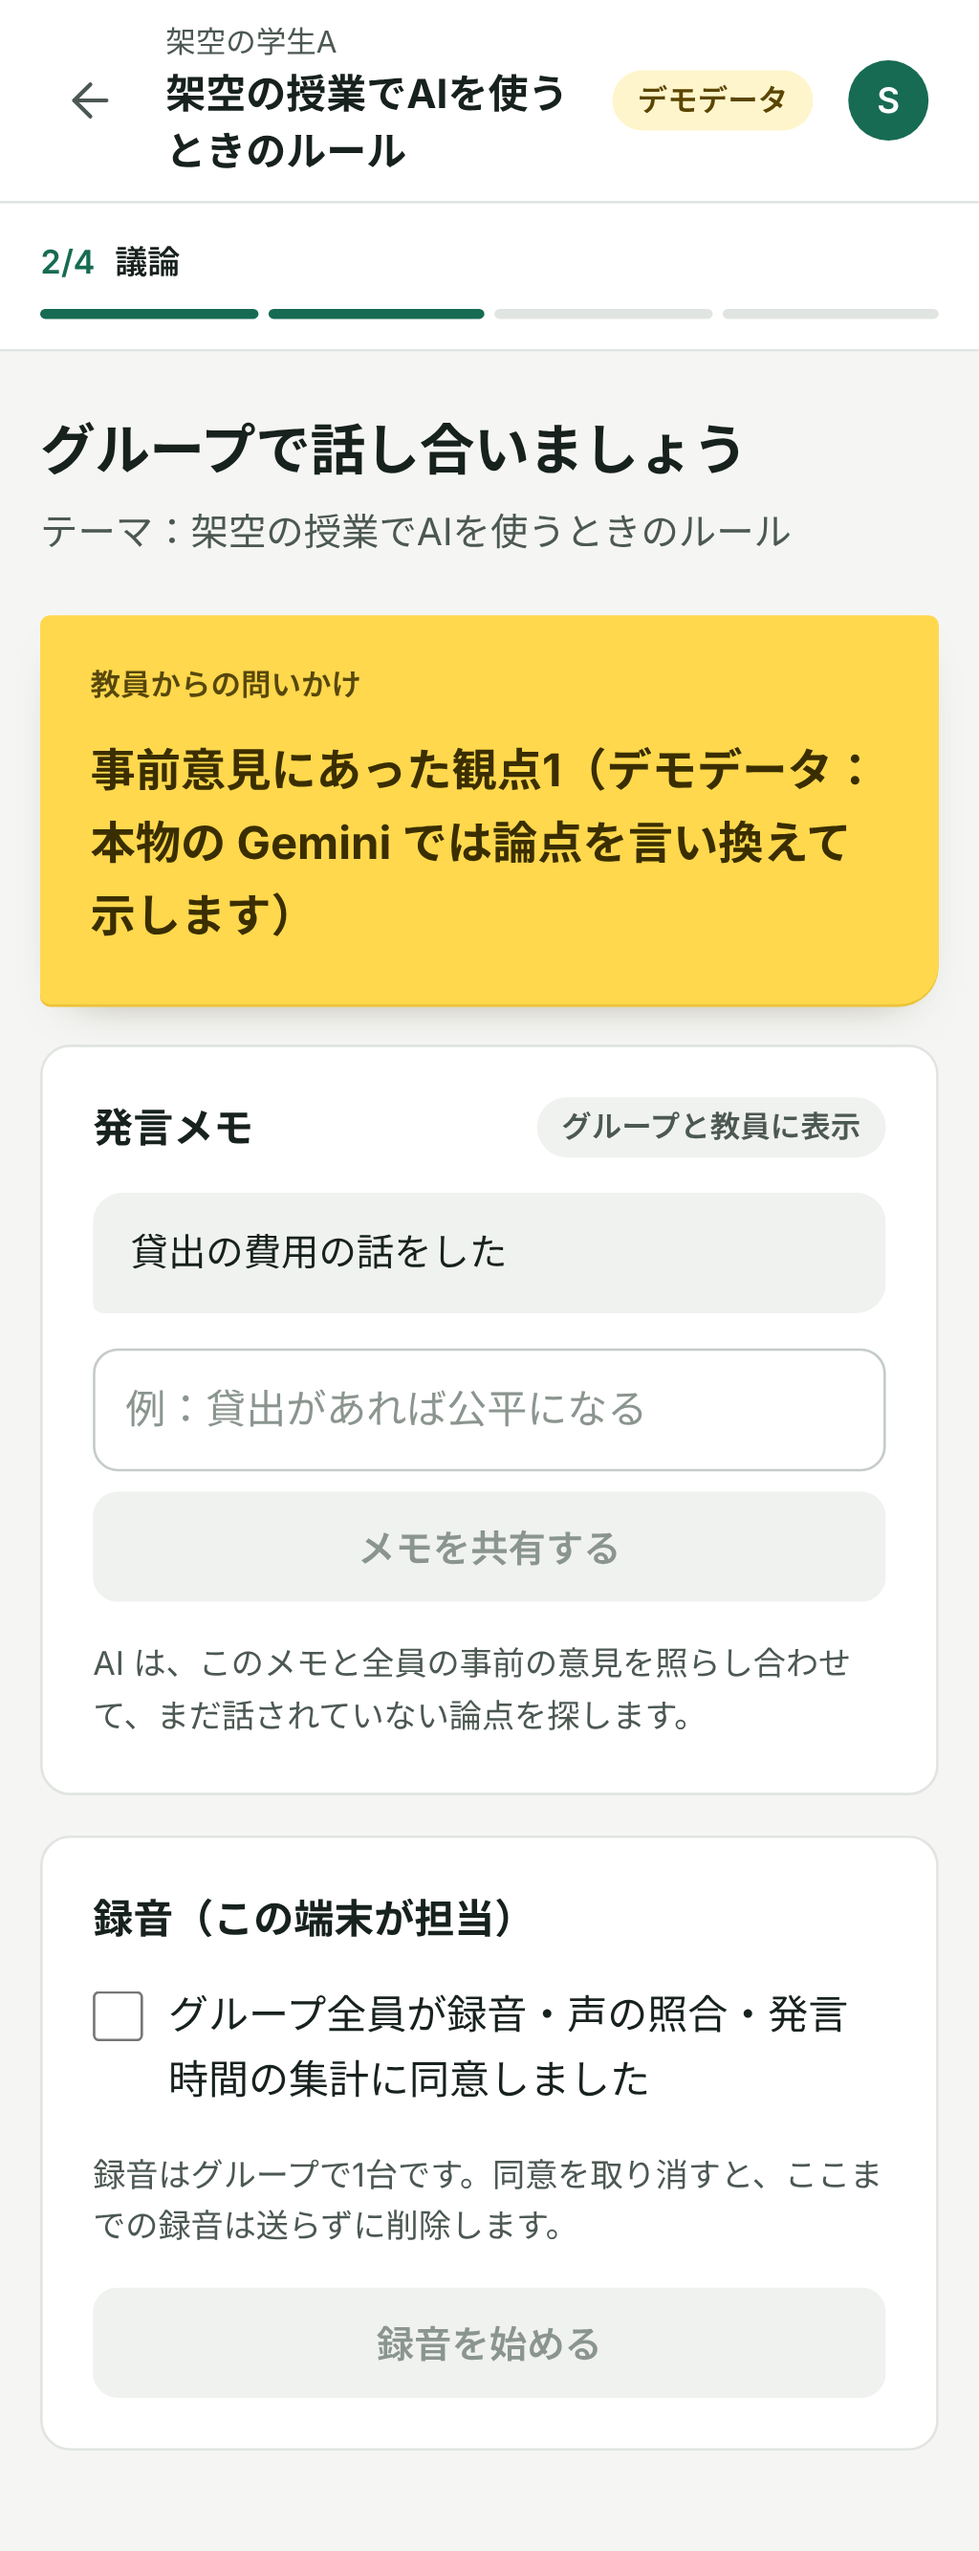
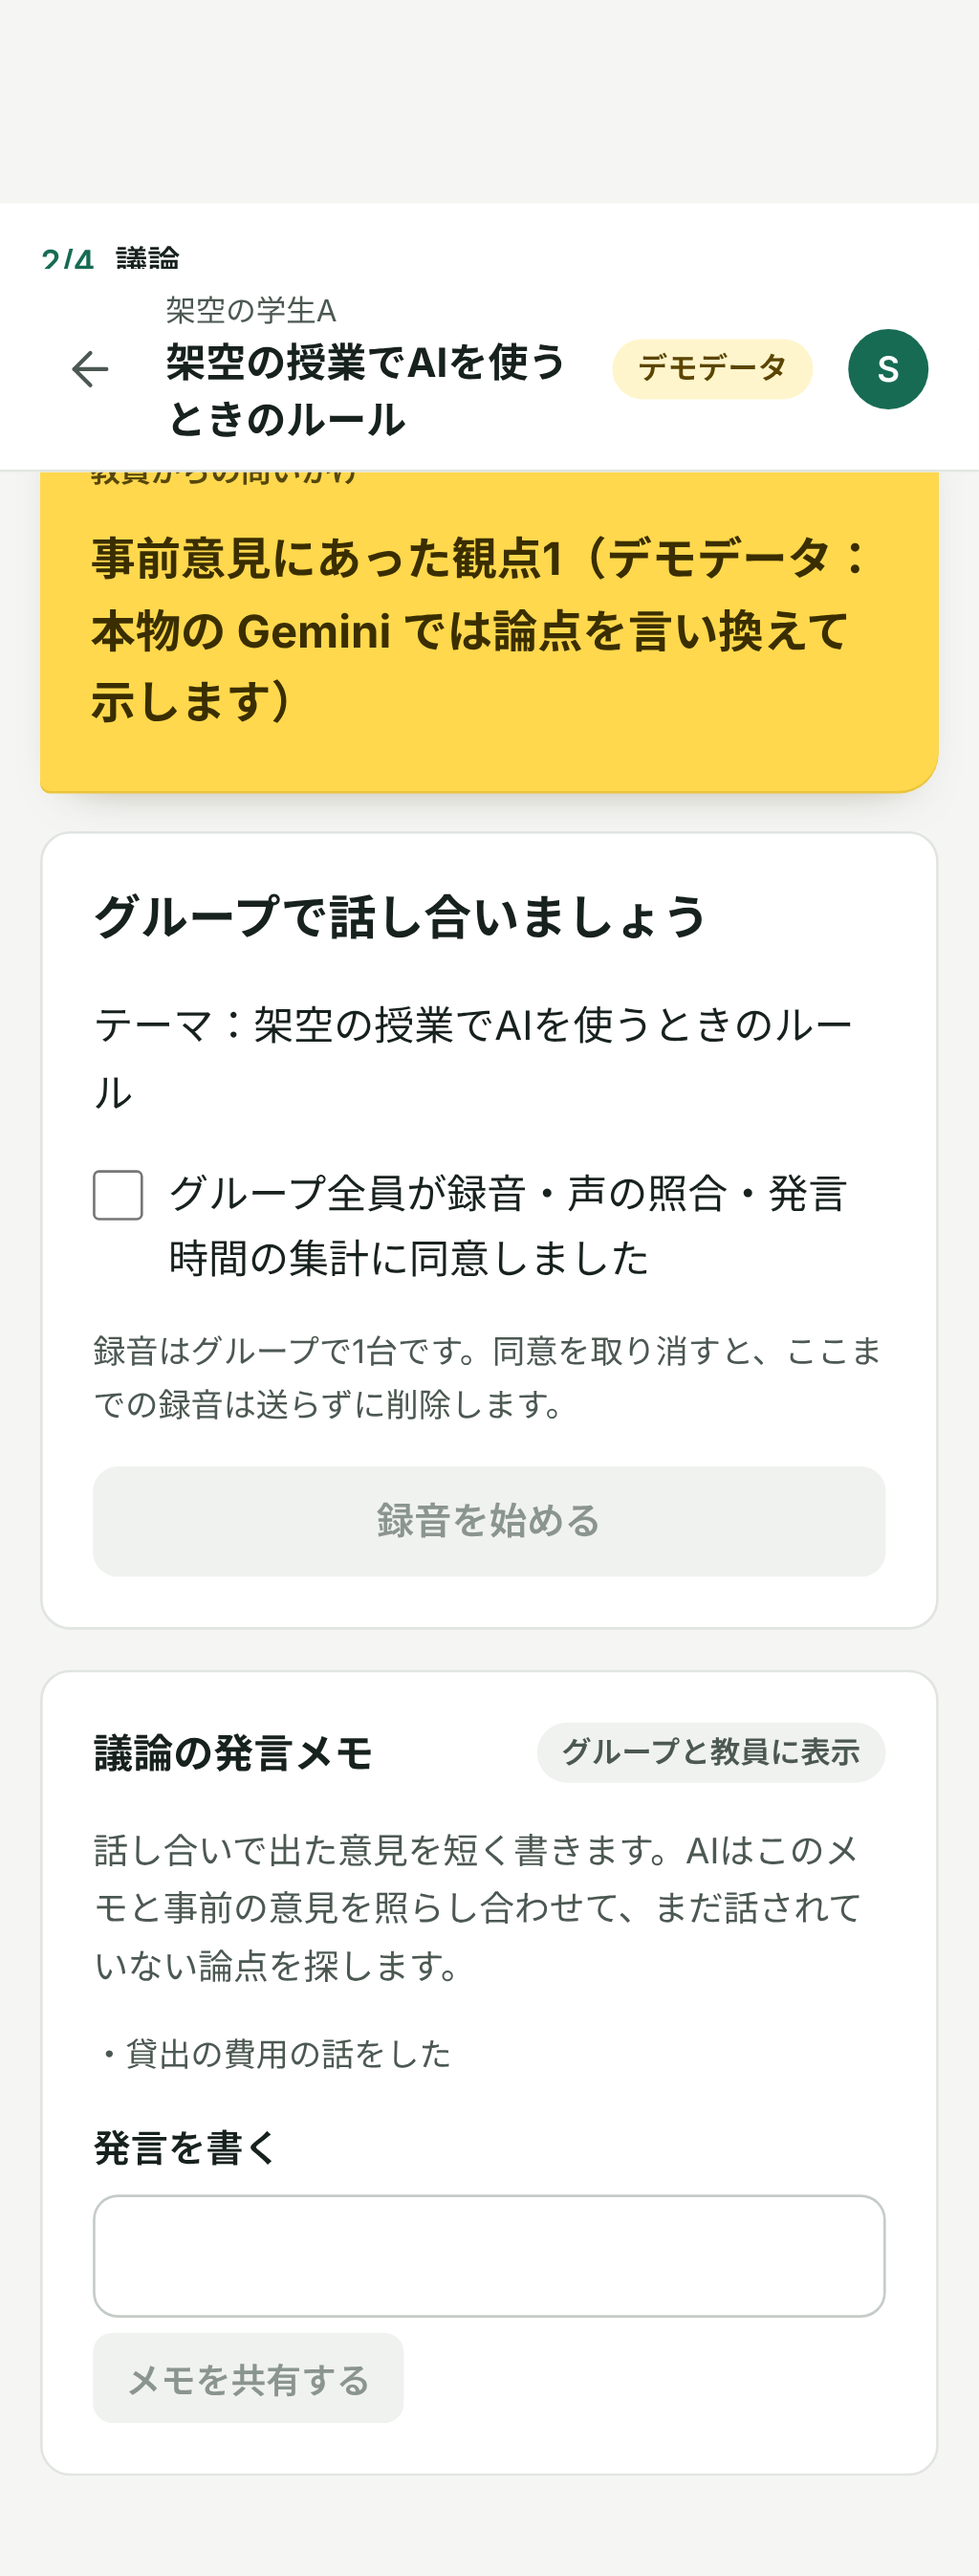
feat: プロダクト名を「Topos — 誰の考えも埋もれない議論を、すべての教室に。」に統一する (#57)
## 背景・目的

依頼者から、プロダクト名を「Topos — 誰の考えも埋もれない議論を、すべての教室に。」に統一し、GitHub からすべての UI
に反映するよう指示を受けました。あわせて、名前の由来を要約して README に書くよう求められています。Docs
の「プロダクト・チーム案」タブにも、同じ名前と由来が加わりました。

## 変更内容

- **画面**：
  - 上の帯のロゴを「Topos」にしました。
  - ログイン画面：
    - ロゴを「Topos」にしました。
    - 見出しをタグライン「誰の考えも埋もれない議論を、すべての教室に。」にしました。言葉の区切りでだけ折り返します。
    - リードを「議論の前に全員の考えを集め、まだ話されていない論点と、合意のずれを AI が見つけます。」にしました。
  - 投影画面のロゴを「Topos」にしました。
- **ブラウザとホーム画面**：
- タブの題名は「Topos — 誰の考えも埋もれない議論を、すべての教室に。」です。画面ごとに題名を付けるときは「画面名 |
Topos」になります。
  - PWA の名前を「Topos — …」、ホーム画面の短い名前を「Topos」にしました。
  - 説明文をそろえました。
- **README**：
  - 題名をタグラインにし、冒頭で「Topos（トポス）は…」と紹介しました。
  - 「Topos という名前」の節を足しました。依頼者の文を、次の流れで要約しています。
    - τόπος（場所）
    - アリストテレス『トピカ』『弁論術』のトポイ（論点の在りか）
    - キケロ『トピカ』とラテン語の locus
    - 英語の topic の語源
    - グロタンディークのトポス
    - 「論点の在りか」を探す営みを AI で実装するという中核
- **AGENTS.md**：作品の説明の先頭を「Topos — …」にし、名前を画面・文書とも Topos に統一することを書きました。
- **docs/mvp-roles.md**：題名を「Topos MVP」にしました。
- **E2E**：ロゴのリンク名（Topos）と PWA の名前に合わせました。

コードの内部の名前（`Discussion` 型、`DiscussPCM` など）は、画面に出ないので変えていません。

## 読んだタブと、方向性との対応

2026-11-08 に Docs の全タブを読み直しました。

| タブ | 内容 | このPRとの対応 |
|---|---|---|
| プロダクト・チーム案 | プロダクト名「Topos — 誰の考えも埋もれない議論を、すべての教室に。」と由来の文が加わった |
画面・メタデータ・README・AGENTS.md を Topos に統一した |
| アプリの構想 | 中核は、まだ議論されていない論点を見つけること | README
の由来の節で、トポス（論点の在りか）と中核の機能とのつながりを書いた |
| インフラ構築手順書 | AI 用の鍵の記録が1行増えた | 写しの追随は専用の PR
[genellect/devfest2026-t167#56](https://github.com/genellect/devfest2026-t167/pull/56)
で扱う |

## 本番への影響
[…]

diff --git a/web/src/components/shell.tsx b/web/src/components/shell.tsx
@@ -7,7 +7,7 @@ import { useGeminiSource } from "@/components/ui";
 /**
  * 画面の骨組み（デザイン「黒板と付箋」）。上に1本の帯だけを置き、左のメニューは持たない（Docs「UIフィードバック」：
  * ヘッダーは最小限、使い方のボタンは不要、次に何をするかを画面そのもので伝える）。
- * - 左上：「Discuss」でホームへ（教員は教員のホーム、学生は学生のホーム）。議論の途中では「←」で戻る
+ * - 左上：「Topos」でホームへ（教員は教員のホーム、学生は学生のホーム）。議論の途中では「←」で戻る
  * - 右上：アカウントの丸。押すと設定（端末とセッション、使い方とプライバシー、ログアウト）
  * - tone="board"：教室に投影する教員の部屋。画面全体を黒板の色にする
  * onLeave は、議論中に別の画面へ移るときの確認（録音を送っていないときなど）。false を返すと移動しない。
@@ -35,8 +35,8 @@ export function AppShell({ title, eyebrow, steps, status, actions, children, onL
       <header className="shell__bar">
         {nav && back
           ? <Link href={back} className="shell__back" aria-label="ホーム" onClick={guard}><ArrowLeft size={22} strokeWidth={1.75} aria-hidden="true" /></Link>
-          : nav ? <Link href={home} className="shell__brand" onClick={guard}>Discuss</Link>
-            : <span className="shell__brand">Discuss</span>}
+          : nav ? <Link href={home} className="shell__brand" onClick={guard}>Topos</Link>
+            : <span className="shell__brand">Topos</span>}
         <div className="shell__title">
           {eyebrow && <p className="shell__eyebrow">{eyebrow}</p>}
           <h1 className="shell__name">{title}</h1>

diff --git a/web/src/app/ds.css b/web/src/app/ds.css
@@ -1,5 +1,5 @@
 /*
- * Discuss デザインシステム（この1枚だけを読む）。
+ * Topos デザインシステム（この1枚だけを読む）。
  *
  * 方針：教育向けの商用ツールとして、静かで信頼できる画面にする。目立たせるのは2つだけ。
  * - 黄色の付箋：AI が見つけた「まだ話されていない論点」。ほかの装飾には黄色を使わない
@@ -486,7 +486,9 @@ input[type=checkbox] { width: 20px; height: 20px; flex: none; margin: 3px 0 0; a
 .login__hero { display: flex; flex-direction: column; justify-content: center; gap: 20px; padding: 64px clamp(32px, 6vw, 96px); background: var(--board); color: var(--chalk); }
 .login__brand { display: inline-flex; align-items: center; gap: 10px; font-size: 18px; font-weight: 700; color: var(--chalk); letter-spacing: -.01em; }
 .login__brand::before { content: ""; width: 22px; height: 22px; border-radius: 3px 3px 8px 3px; background: var(--insight); }
-.login__title { font-size: clamp(34px, 4vw, 52px); font-weight: 700; line-height: 1.3; letter-spacing: -.01em; color: #fff; }
+/* 見出しは「誰の考えも／埋もれない議論を、／すべての教室に。」の区切りでだけ折り返す */
+.login__title span { display: inline-block; }
+.login__title { font-size: clamp(30px, 3.4vw, 48px); font-weight: 700; line-height: 1.3; letter-spacing: -.01em; color: #fff; }
 .login__lead { max-width: 32em; font-size: 17px; line-height: 1.8; color: var(--chalk-2); }
 /* 製品の見本：AI の付箋と、理解の分かれ方 */
 .login__board { display: grid; gap: 12px; max-width: 520px; margin-top: 12px; padding: 18px; border-radius: 16px; background: var(--surface); color: var(--ink); box-shadow: 0 24px 48px -24px rgb(0 0 0 / .6); }

diff --git a/web/src/app/layout.tsx b/web/src/app/layout.tsx
@@ -3,11 +3,12 @@ import "./ds.css";
 import { LoginGate } from "@/components/LoginGate";
 
 export const metadata: Metadata = {
-  title: "Discuss",
-  description: "議論の前に全員の考えを集め、話し合いのずれを見つけるグループディスカッション支援",
-  applicationName: "Discuss",
+  // プロダクト名は Topos（README「Topos という名前」）。タブの題名は「画面名 | Topos」
+  title: { default: "Topos — 誰の考えも埋もれない議論を、すべての教室に。", template: "%s | Topos" },
+  description: "議論の前に全員の考えを集め、まだ話されていない論点と合意のずれを AI が見つけるグループディスカッション支援",
+  applicationName: "Topos",
   // ホーム画面に追加したとき、iPhone でもブラウザの枠なしで開く
-  appleWebApp: { capable: true, title: "Discuss", statusBarStyle: "default" },
+  appleWebApp: { capable: true, title: "Topos", statusBarStyle: "default" },
   icons: { apple: "/icons/apple-touch-icon.png" },
 };
 // viewport-fit=cover で、iPhone の下の余白（env(safe-area-inset-*)）を CSS で扱えるようにする

diff --git a/web/src/app/page.tsx b/web/src/app/page.tsx
@@ -41,9 +41,9 @@ export default function Login() {
   return (
     <main className="screen login">
       <section className="login__hero">
-        <p className="login__brand">Discuss</p>
-        <h1 className="t-hero login__title">話す前に、<br />全員の考えを。</h1>
-        <p className="login__lead">声にならなかった意見と、合意のずれを見つけるグループディスカッション。</p>
+        <p className="login__brand">Topos</p>
+        <h1 className="t-hero login__title"><span>誰の考えも</span><span>埋もれない議論を、</span><br /><span>すべての教室に。</span></h1>
+        <p className="login__lead">議論の前に全員の考えを集め、まだ話されていない論点と、合意のずれを AI が見つけます。</p>
         {/* 製品の見本：教員の画面に出る AI の付箋と、結果に出る理解の分かれ方 */}
         <div className="login__board" aria-hidden="true">
           <p className="login__board-label">議論中、教員の画面に</p>

diff --git a/web/e2e/mobile.spec.ts b/web/e2e/mobile.spec.ts
@@ -17,8 +17,8 @@ for (const [account, landing, home] of [["生徒", /\/join$/, "/home"], ["先生
     }
     for (const path of ["/home", "/host/new", "/join", "/host/profile", "/about"]) {
       await page.goto(path);
-      // 左のメニューは置かない。左上の「Discuss」がホーム（教員は教員のホーム、学生は学生のホーム）、右上の丸が設定
-      await expect(page.getByRole("link", { name: "Discuss", exact: true })).toHaveAttribute("href", home);
+      // 左のメニューは置かない。左上の「Topos」がホーム（教員は教員のホーム、学生は学生のホーム）、右上の丸が設定
+      await expect(page.getByRole("link", { name: "Topos", exact: true })).toHaveAttribute("href", home);
       await expect(page.getByRole("link", { name: /^設定（/ })).toHaveAttribute("href", "/host/profile");
       expect(await page.evaluate(() => document.documentElement.scrollWidth <= innerWidth), path).toBe(true);
     }

diff --git a/web/src/app/manifest.ts b/web/src/app/manifest.ts
@@ -4,9 +4,9 @@ import type { MetadataRoute } from "next";
 export default function manifest(): MetadataRoute.Manifest {
   return {
     id: "/",
-    name: "Discuss",
-    short_name: "Discuss",
-    description: "議論の前に全員の考えを集め、話し合いのずれを見つけるグループディスカッション支援",
+    name: "Topos — 誰の考えも埋もれない議論を、すべての教室に。",
+    short_name: "Topos",
+    description: "議論の前に全員の考えを集め、まだ話されていない論点と合意のずれを AI が見つけるグループディスカッション支援",
     lang: "ja",
     start_url: "/home",
     scope: "/",

diff --git a/web/src/components/host/PresentView.tsx b/web/src/components/host/PresentView.tsx
@@ -27,7 +27,7 @@ export function PresentView({ roomId, room }: { roomId: string; room: Room }) {
   return (
     <main className="present" aria-label="投影画面">
       <header className="present__bar">
-        <p className="present__brand">Discuss</p>
+        <p className="present__brand">Topos</p>
         <h1 className="present__theme">{room.theme || room.title}</h1>
         <div className="present__tools">
           <button type="button" className="present__tool" onClick={() => void document.documentElement.requestFullscreen?.().catch(() => {})} aria-label="全画面にする" title="全画面にする"><Maximize aria-hidden="true" strokeWidth={1.75} /></button>

diff --git a/README.md b/README.md
@@ -1,4 +1,4 @@
-# T167 AI協調型グループディスカッション支援
+# Topos — 誰の考えも埋もれない議論を、すべての教室に。
 
 > 2026-11-06 MVP仕様変更：全員Googleログイン。ディスカッションを作れるのは、管理者が招待した教員（teacher claim）だけです（Docs「サーバーフィードバック」）。作成後のHost/Participantは議論のmembers.roleで判定します。ログイン後、教員は教員のホーム（/teacher）、学生は参加コードの入力（/join）へ進みます。ログイン上限は全員1台です。新仕様・API・移行条件は [MVPロール設計](docs/mvp-roles.md) を参照。以下の旧仕様と相違する場合は新仕様を適用します。
 >
@@ -8,9 +8,15 @@
 **「全員賛成」の中身のずれを、議論が終わる前に見つける。**
 
 <!-- 提出前に記入：作品の URL とデモ動画を、次の行の先頭に [作品](URL) · [デモ動画](URL) · として足す。構成図の画像は docs/architecture.png。この README には確かめた状態だけを書く -->
-[アーキテクチャ](#アーキテクチャ) · [Gemini の役割](#gemini-の役割) · [技術の選定理由](#技術の選定理由と制約) · [テスト](#テスト) · [開発に参加する](#開発に参加する) · [チーム](#チーム)
+[Topos という名前](#topos-という名前) · [アーキテクチャ](#アーキテクチャ) · [Gemini の役割](#gemini-の役割) · [技術の選定理由](#技術の選定理由と制約) · [テスト](#テスト) · [開発に参加する](#開発に参加する) · [チーム](#チーム)
 
-議論の前に全員の意見を非公開で集め、Gemini が「まだ議論されていない論点」と「合意の中身のずれ」を見つけて司会者に知らせる Web アプリ。司会者は AI の提案を承認してから全員に示すので、議論の主導権は人に残る。DevFest Hackathon 2026 の教育カテゴリの作品で、Google Cloud の Gemini（Vertex AI）・Cloud Firestore・Cloud Run・Firebase App Hosting・Firebase Authentication で動かす。
+**Topos**（トポス）は、議論の前に全員の意見を非公開で集め、Gemini が「まだ議論されていない論点」と「合意の中身のずれ」を見つけて司会者に知らせる Web アプリ。司会者は AI の提案を承認してから全員に示すので、議論の主導権は人に残る。DevFest Hackathon 2026 の教育カテゴリにチーム T167 が出す作品で、Google Cloud の Gemini（Vertex AI）・Cloud Firestore・Cloud Run・Firebase App Hosting・Firebase Authentication で動かす。
+
+## Topos という名前
+
+Topos（トポス）は古代ギリシャ語の τόπος（場所）に由来する。アリストテレスは『トピカ』と『弁論術』で、議論の論点を引き出す思考の型を「トポイ」（トポスの複数形）と呼んで体系化した。どんな主題にも論点の「在りか」があり、それを知っていれば見落としなく論じ尽くせる、という考え方である。この概念はキケロの『トピカ』を経てラテン語の locus として受け継がれ、二千年以上、修辞学・論理学・法学で論点を見つける基礎として教えられてきた。英語の topic も『トピカ』が語源である。20世紀には数学者グロタンディークが、空間の概念を一般化した構造に「トポス」の名を与えた。
+
+このプロダクトの中核は、議論の中にまだ現れていない論点を見つけることで、アリストテレスが「論点の在りか」と呼んだものを探す営みを AI で実装する。Topos は、二千年続く議論の知恵と、AI による新しい議論の形をつなぐ名前である。
 
 ## 課題と3つの機能
 

diff --git a/AGENTS.md b/AGENTS.md
@@ -7,7 +7,7 @@
 
 ## 作品
 
-議論の前に全員の意見を非公開で集め、Gemini が「まだ議論されていない論点」と「合意の中身のずれ」を見つけて司会者に知らせる Web アプリ（DevFest Hackathon 2026・教育カテゴリ）。
+**Topos — 誰の考えも埋もれない議論を、すべての教室に。** 議論の前に全員の意見を非公開で集め、Gemini が「まだ議論されていない論点」と「合意の中身のずれ」を見つけて司会者に知らせる Web アプリ（DevFest Hackathon 2026・教育カテゴリ）。プロダクト名は画面・文書とも「Topos」に統一する（由来は README「Topos という名前」）。
 
 | 優先順位 | 内容 |
 |---|---|

diff --git a/docs/mvp-roles.md b/docs/mvp-roles.md
@@ -1,4 +1,4 @@
-# Google Discuss MVP：セッション内ロールと認証
+# Topos MVP：セッション内ロールと認証
 
 2026-11-06の変更指示を適用する。学校でのTeacher/Studentと議論のHost/Participantを分離し、MVPでは全員がGoogleでログインする。役割選択とClassroom接続は利用条件にしない。
 
